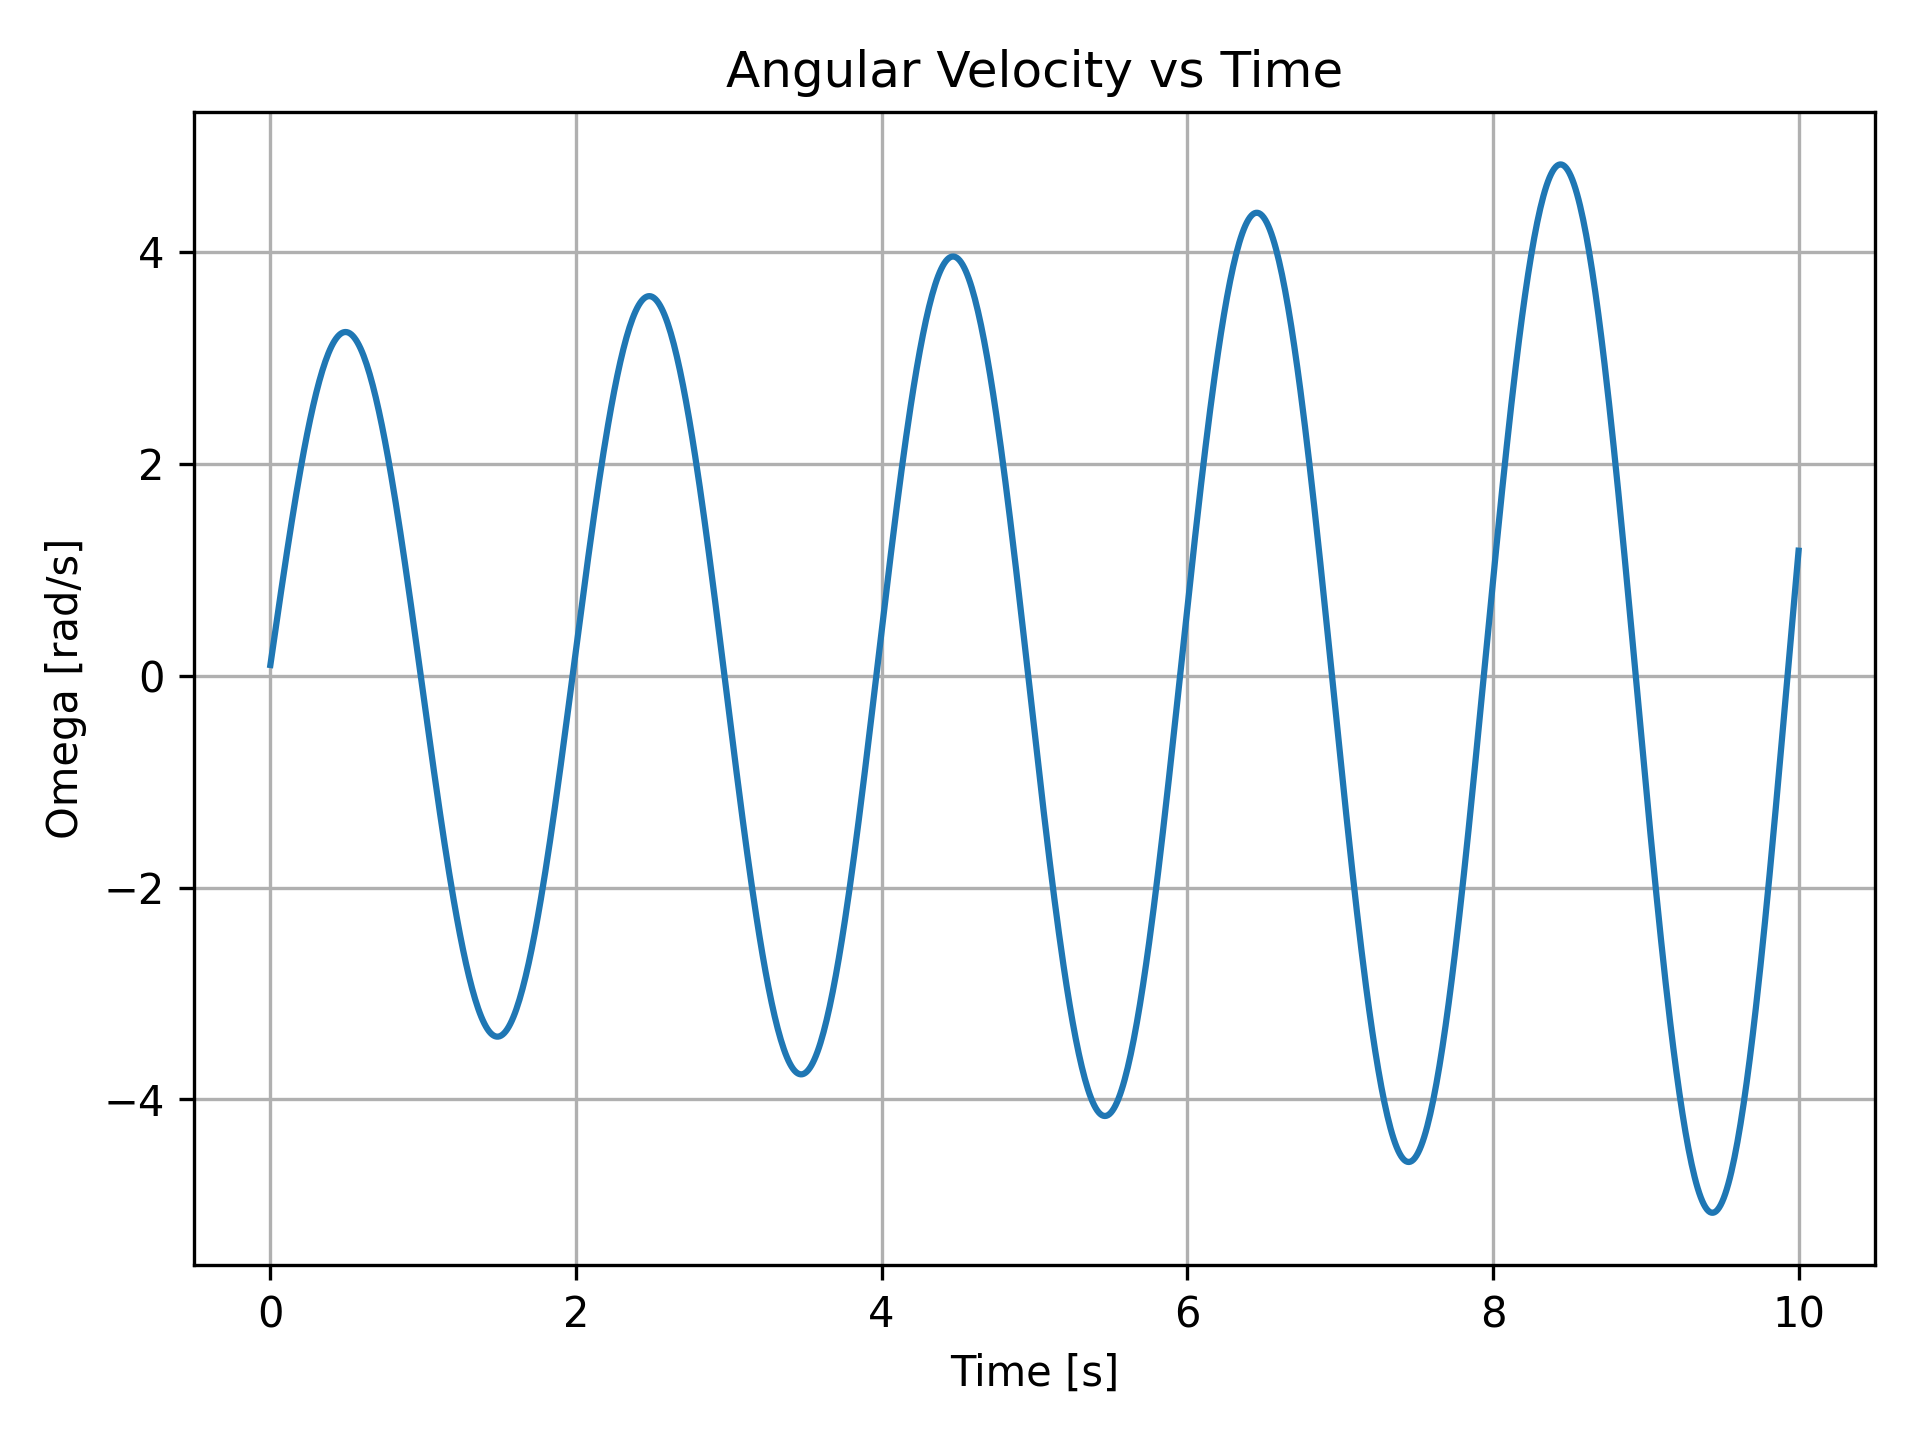
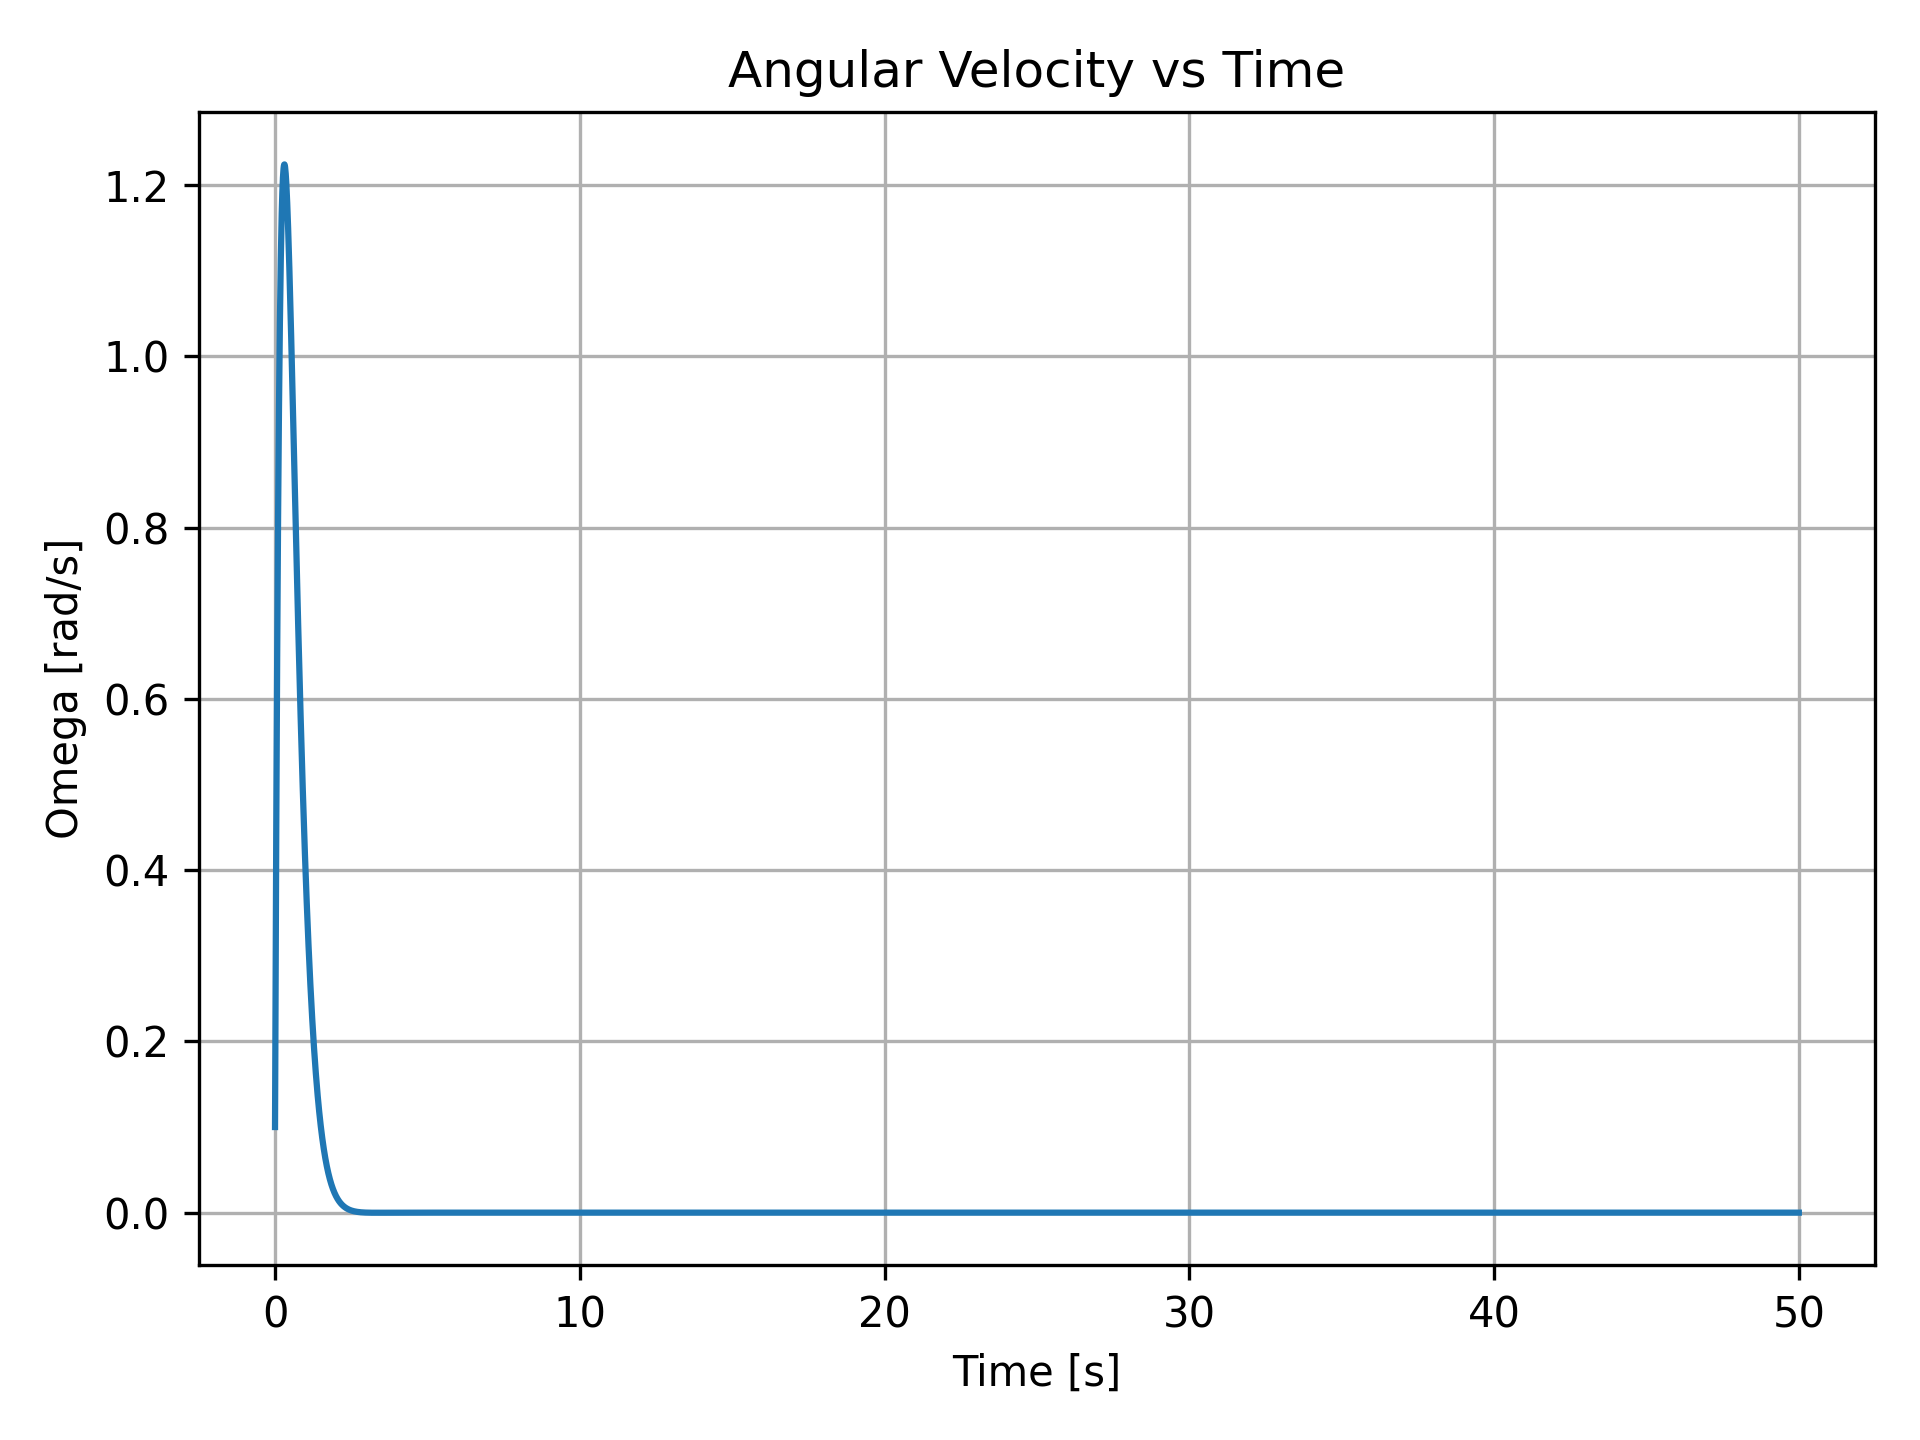
Implementation of PD control

diff --git a/src/simulator.py b/src/simulator.py
@@ -13,6 +13,7 @@ def run_simulation(
     inertia_kgm2: float,
     theta_target_rad: float,
     kp: float,
+    kd: float,
     theta0_rad: float,
     omega0_rad_s: float,
     dt_s: float,
@@ -46,12 +47,13 @@ def run_simulation(
     
     theta[0] = theta0_rad
     omega[0] = omega0_rad_s
-    error_hist[0] = theta_target_rad - theta0_rad
-    torque_cmd[0] = kp * error_hist[0]
+    
+    error_hist[0] = theta_target_rad - theta[0]
+    torque_cmd[0] = kp * error_hist[0] - kd * omega[0]
 
     for k in range(1, len(times)):
         error = theta_target_rad - theta[k - 1]
-        torque = kp * error
+        torque = kp * error - kd * omega[k - 1]
 
         alpha = compute_angular_acceleration(torque, inertia_kgm2)
 

diff --git a/src/config.py b/src/config.py
@@ -11,6 +11,7 @@ OMEGA0_RAD_S = 0.1        # Initial angular velocity [rad/s]
 
 THETA_TARGET_RAD = 1.0    # Desired angular position [rad]
 KP = 0.5                  # Propotional gain
+KD = 0.3                  # Derivative gain
 
 DT_S = 0.01               # Simulation time step [s]
-T_FINAL_S = 10.0          # Total simulation time [s]
+T_FINAL_S = 50.0          # Total simulation time [s]

diff --git a/src/main.py b/src/main.py
@@ -10,6 +10,7 @@ from src.config import (
     OMEGA0_RAD_S,
     THETA_TARGET_RAD,
     KP,
+    KD,
     DT_S,
     T_FINAL_S,
 )
@@ -22,6 +23,7 @@ def main():
         inertia_kgm2=INERTIA_KGM2,
         theta_target_rad=THETA_TARGET_RAD,
         kp=KP,
+        kd=KD,
         theta0_rad=THETA0_RAD,
         omega0_rad_s=OMEGA0_RAD_S,
         dt_s=DT_S,
